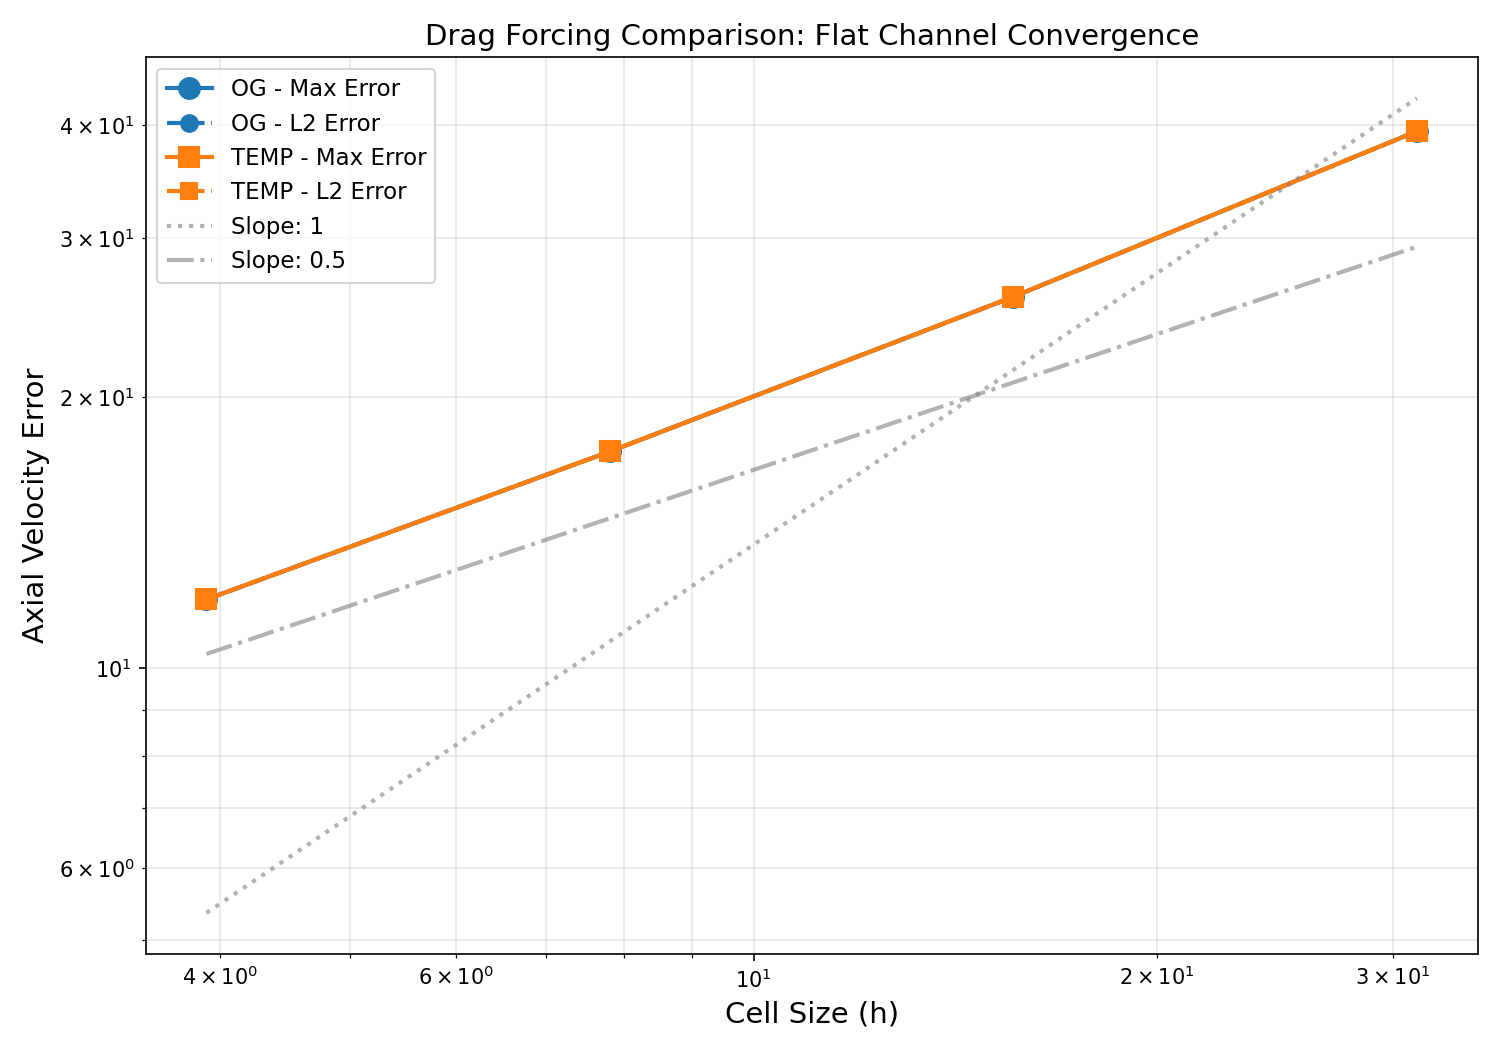
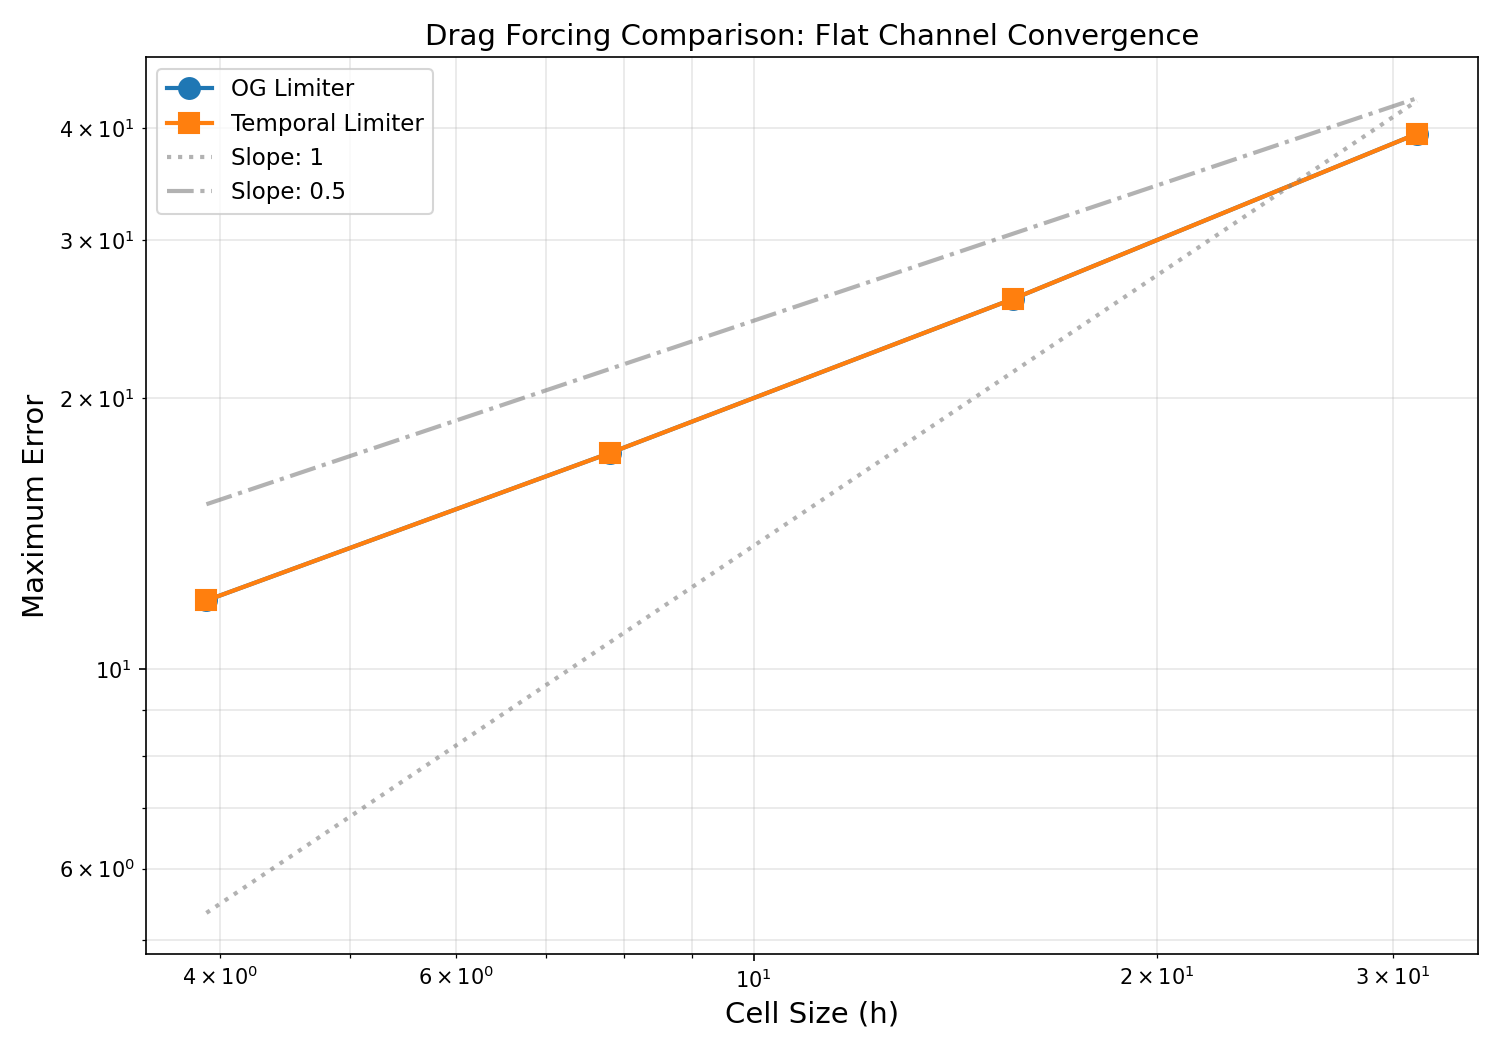
Update post processing and images

diff --git a/validation/single_phase_laminar_slanted/python/post_process.py b/validation/single_phase_laminar_slanted/python/post_process.py
@@ -539,7 +539,6 @@ print()
 fig, ax = plt.subplots(figsize=(10, 7))
 
 ax.loglog(cell_size_array, u_axial_error_max, 'o-', linewidth=2, markersize=10, label='Max Error')
-ax.loglog(cell_size_array, u_axial_error_l2, 's-', linewidth=2, markersize=8, label='L2 Error')
 if len(cell_size_array) > 1:
     # Trend lines
     coeffs_max = np.polyfit(np.log(cell_size_array), np.log(u_axial_error_max), 1)
@@ -554,12 +553,12 @@ if len(cell_size_array) > 1:
     ax.loglog(cell_trend, C_slope1 * cell_trend**1.0, ':', alpha=0.6, linewidth=2, color='gray', label='Slope: 1')
     
     # O(h^1/2) reference: error ~ C * h^0.5
-    C_slope05 = 0.85 * mean_error_max / (mean_cell_size ** 0.5)
+    C_slope05 = 1.25 * mean_error_max / (mean_cell_size ** 0.5)
     ax.loglog(cell_trend, C_slope05 * cell_trend**0.5, '-.', alpha=0.6, linewidth=2, color='gray', label='Slope: 0.5')
 
 ax.set_xlabel('Cell Size (h)', fontsize=14)
-ax.set_ylabel('Axial Velocity Error', fontsize=14)
-ax.set_title('Convergence vs Cell Size (Axial Velocity)', fontsize=14)
+ax.set_ylabel('Maximum Error', fontsize=14)
+ax.set_title('Convergence vs Cell Size', fontsize=14)
 ax.legend(fontsize=11)
 ax.grid(True, alpha=0.3, which='both')
 
@@ -636,76 +635,6 @@ plt.tight_layout()
 plt.savefig(f'{figureDir}/error_field_visualization.png', dpi=150, bbox_inches='tight')
 plt.show()
 print('Axial velocity error field visualization complete (all colorbars use same scale)\n')
-
-# ================================================================================
-# Axial Velocity - Wall Error Analysis
-# ================================================================================
-fig, axes = plt.subplots(1, 2, figsize=(14, 5))
-
-# Max Error vs Cell Size
-ax = axes[0]
-ax.loglog(cell_size_array, u_axial_error_max, 'o-', linewidth=2, markersize=10, label='Overall')
-ax.loglog(cell_size_array, u_axial_error_max_wall, 's-', linewidth=2, markersize=8, label='Wall region')
-if len(cell_size_array) > 1:
-    coeffs_max_overall = np.polyfit(np.log(cell_size_array), np.log(u_axial_error_max), 1)
-    coeffs_max_wall = np.polyfit(np.log(cell_size_array), np.log(u_axial_error_max_wall), 1)
-    cell_trend = np.logspace(np.log10(cell_size_array.min()), np.log10(cell_size_array.max()), 50)
-    ax.loglog(cell_trend, 0.85 * np.exp(coeffs_max_overall[1]) * cell_trend**coeffs_max_overall[0], '--', alpha=0.5, linewidth=1.5, color='C0', label=f'Overall Trend (slope={coeffs_max_overall[0]:.2f})')
-    ax.loglog(cell_trend, 0.85 * np.exp(coeffs_max_wall[1]) * cell_trend**coeffs_max_wall[0], '--', alpha=0.5, linewidth=1.5, color='C1', label=f'Wall Trend (slope={coeffs_max_wall[0]:.2f})')
-ax.set_xlabel('Cell Size (h)', fontsize=12)
-ax.set_ylabel('Max Error', fontsize=12)
-ax.set_title('Max Norm Error vs Cell Size', fontsize=13)
-ax.legend(fontsize=9)
-ax.grid(True, alpha=0.3, which='both')
-
-# L2 Error vs Cell Size
-ax = axes[1]
-ax.loglog(cell_size_array, u_axial_error_l2, 'o-', linewidth=2, markersize=10, label='Overall')
-ax.loglog(cell_size_array, u_axial_error_l2_wall, 's-', linewidth=2, markersize=8, label='Wall region')
-if len(cell_size_array) > 1:
-    coeffs_l2_overall = np.polyfit(np.log(cell_size_array), np.log(u_axial_error_l2), 1)
-    coeffs_l2_wall = np.polyfit(np.log(cell_size_array), np.log(u_axial_error_l2_wall), 1)
-    cell_trend = np.logspace(np.log10(cell_size_array.min()), np.log10(cell_size_array.max()), 50)
-    ax.loglog(cell_trend, 0.85 * np.exp(coeffs_l2_overall[1]) * cell_trend**coeffs_l2_overall[0], '--', alpha=0.5, linewidth=1.5, color='C0', label=f'Overall Trend (slope={coeffs_l2_overall[0]:.2f})')
-    ax.loglog(cell_trend, 0.85 * np.exp(coeffs_l2_wall[1]) * cell_trend**coeffs_l2_wall[0], '--', alpha=0.5, linewidth=1.5, color='C1', label=f'Wall Trend (slope={coeffs_l2_wall[0]:.2f})')
-ax.set_xlabel('Cell Size (h)', fontsize=12)
-ax.set_ylabel('L2 Error', fontsize=12)
-ax.set_title('L2 Error vs Cell Size', fontsize=13)
-ax.legend(fontsize=9)
-ax.grid(True, alpha=0.3, which='both')
-
-plt.tight_layout()
-plt.savefig(f'{figureDir}/wall_error_analysis.png', dpi=150)
-plt.show()
-print('Wall error analysis complete\n')
-
-# Print trend slopes
-print('='*90)
-print('CONVERGENCE RATE ANALYSIS (Slopes vs Cell Size)')
-print('='*90)
-if len(cell_size_array) > 1:
-    coeffs_max_overall = np.polyfit(np.log(cell_size_array), np.log(u_axial_error_max), 1)
-    coeffs_max_wall = np.polyfit(np.log(cell_size_array), np.log(u_axial_error_max_wall), 1)
-    coeffs_l2_overall = np.polyfit(np.log(cell_size_array), np.log(u_axial_error_l2), 1)
-    coeffs_l2_wall = np.polyfit(np.log(cell_size_array), np.log(u_axial_error_l2_wall), 1)
-    
-    print(f'{"Error Type":<25} {"Region":<20} {"Convergence Rate (p)":<20}')
-    print('='*90)
-    print(f'{"Max Error":<25} {"Overall":<20} {coeffs_max_overall[0]:<20.2f}')
-    print(f'{"Max Error":<25} {"Wall":<20} {coeffs_max_wall[0]:<20.2f}')
-    print(f'{"L2 Error":<25} {"Overall":<20} {coeffs_l2_overall[0]:<20.2f}')
-    print(f'{"L2 Error":<25} {"Wall":<20} {coeffs_l2_wall[0]:<20.2f}')
-    print('='*90)
-
-# Error Summary
-print('='*90)
-print('AXIAL VELOCITY ERROR SUMMARY')
-print('='*90)
-print(f'{"Case":<20} {"Grid":<15} {"Max Error (Overall)":<20} {"L2 Error (Overall)":<20} {"Max Error (Wall)":<20} {"L2 Error (Wall)":<20}')
-print('='*90)
-for i in range(nCases):
-    print(f'{valid_cases[i]:<20} {nx[i]} x {nz[i]:<8} {u_axial_error_max[i]:<20.6e} {u_axial_error_l2[i]:<20.6e} {u_axial_error_max_wall[i]:<20.6e} {u_axial_error_l2_wall[i]:<20.6e}')
-print('='*90)
 
 # ================================================================================
 # Velocity Profile Comparison

diff --git a/validation/single_phase_laminar_slanted/python/post_process_drag.py b/validation/single_phase_laminar_slanted/python/post_process_drag.py
@@ -414,16 +414,14 @@ fig, ax = plt.subplots(figsize=(10, 7))
 
 colors = {'og': 'C0', 'temp': 'C1'}
 markers = {'og': 'o', 'temp': 's'}
+labels = {'og': 'OG Limiter', 'temp': 'Temporal Limiter'}
 
 for variant in drag_variants:
     cell_size_array = errors_by_variant[variant]['cell_size_array']
     u_axial_error_max = errors_by_variant[variant]['error_max']
-    u_axial_error_l2 = errors_by_variant[variant]['error_l2']
     
     ax.loglog(cell_size_array, u_axial_error_max, marker=markers[variant], linestyle='-', linewidth=2, 
-              markersize=10, label=f'{variant.upper()} - Max Error', color=colors[variant])
-    ax.loglog(cell_size_array, u_axial_error_l2, marker=markers[variant], linestyle='--', linewidth=2, 
-              markersize=8, label=f'{variant.upper()} - L2 Error', color=colors[variant])
+              markersize=10, label=labels[variant], color=colors[variant])
 
 # Add reference slopes using combined data
 all_cell_sizes = np.concatenate([errors_by_variant[v]['cell_size_array'] for v in drag_variants])
@@ -441,11 +439,11 @@ if len(all_cell_sizes) > 1:
     ax.loglog(cell_trend, C_slope1 * cell_trend**1.0, ':', alpha=0.6, linewidth=2, color='gray', label='Slope: 1')
     
     # O(h^1/2) reference: error ~ C * h^0.5
-    C_slope05 = 0.85 * mean_error_max / (mean_cell_size ** 0.5)
+    C_slope05 = 1.25 * mean_error_max / (mean_cell_size ** 0.5)
     ax.loglog(cell_trend, C_slope05 * cell_trend**0.5, '-.', alpha=0.6, linewidth=2, color='gray', label='Slope: 0.5')
 
 ax.set_xlabel('Cell Size (h)', fontsize=14)
-ax.set_ylabel('Axial Velocity Error', fontsize=14)
+ax.set_ylabel('Maximum Error', fontsize=14)
 ax.set_title(f'Drag Forcing Comparison: {mode_name.title()} Channel Convergence', fontsize=14)
 ax.legend(fontsize=11)
 ax.grid(True, alpha=0.3, which='both')
@@ -455,5 +453,3 @@ plt.savefig(f'{figureDir}/error_convergence.png', dpi=150)
 plt.show()
 
 print('\nPost-processing complete!')
-
-print('Post-processing complete!')
